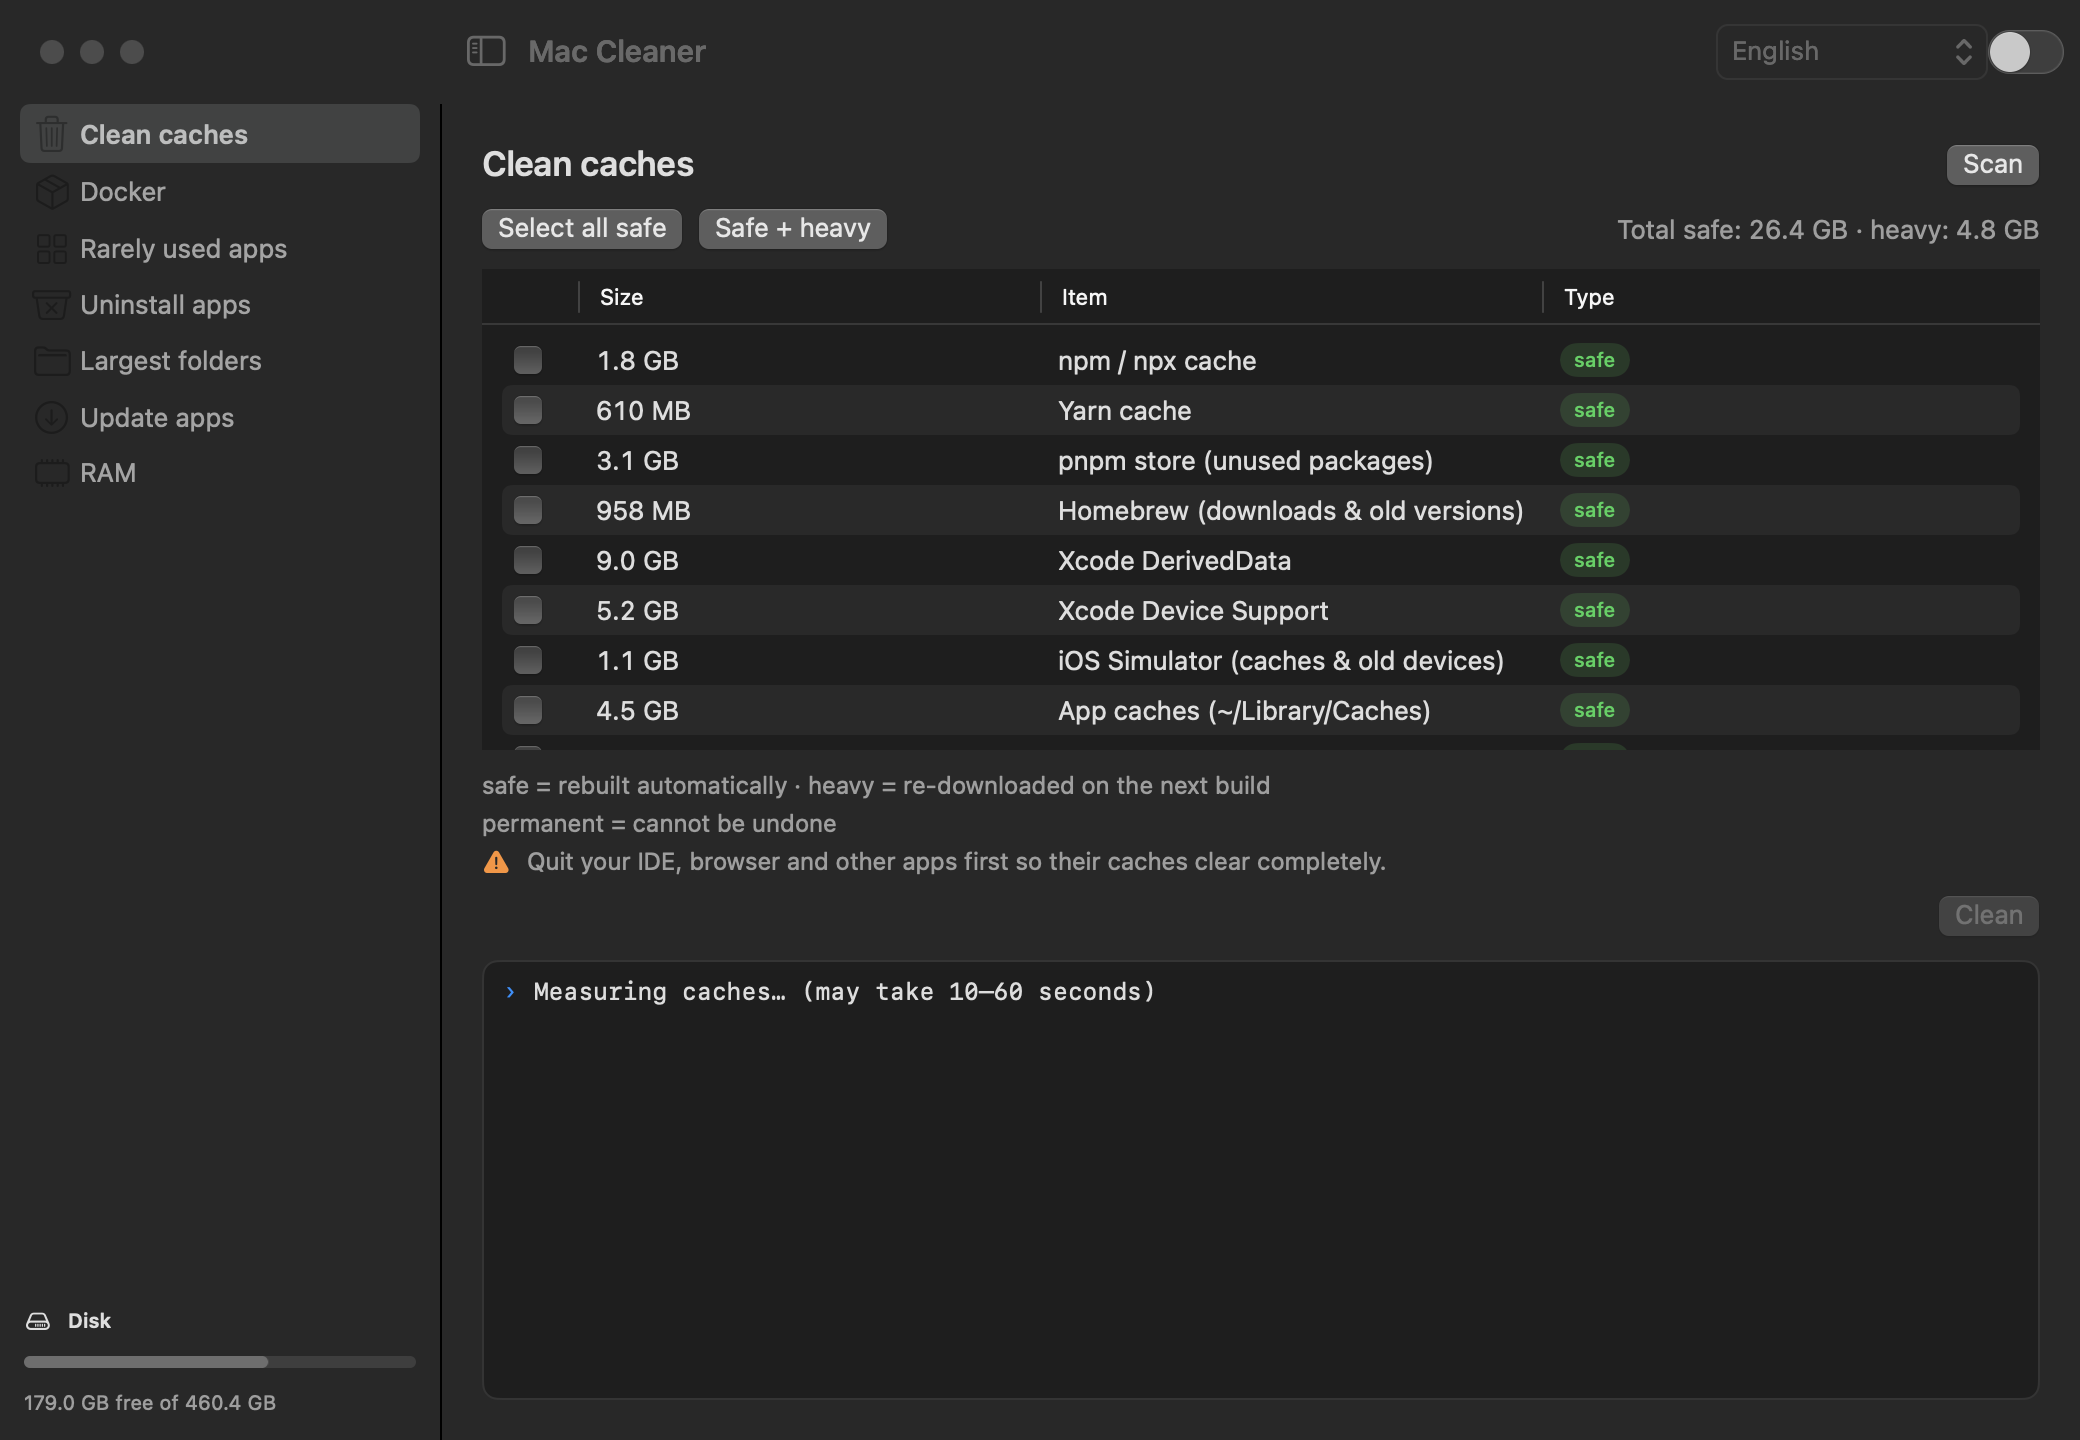
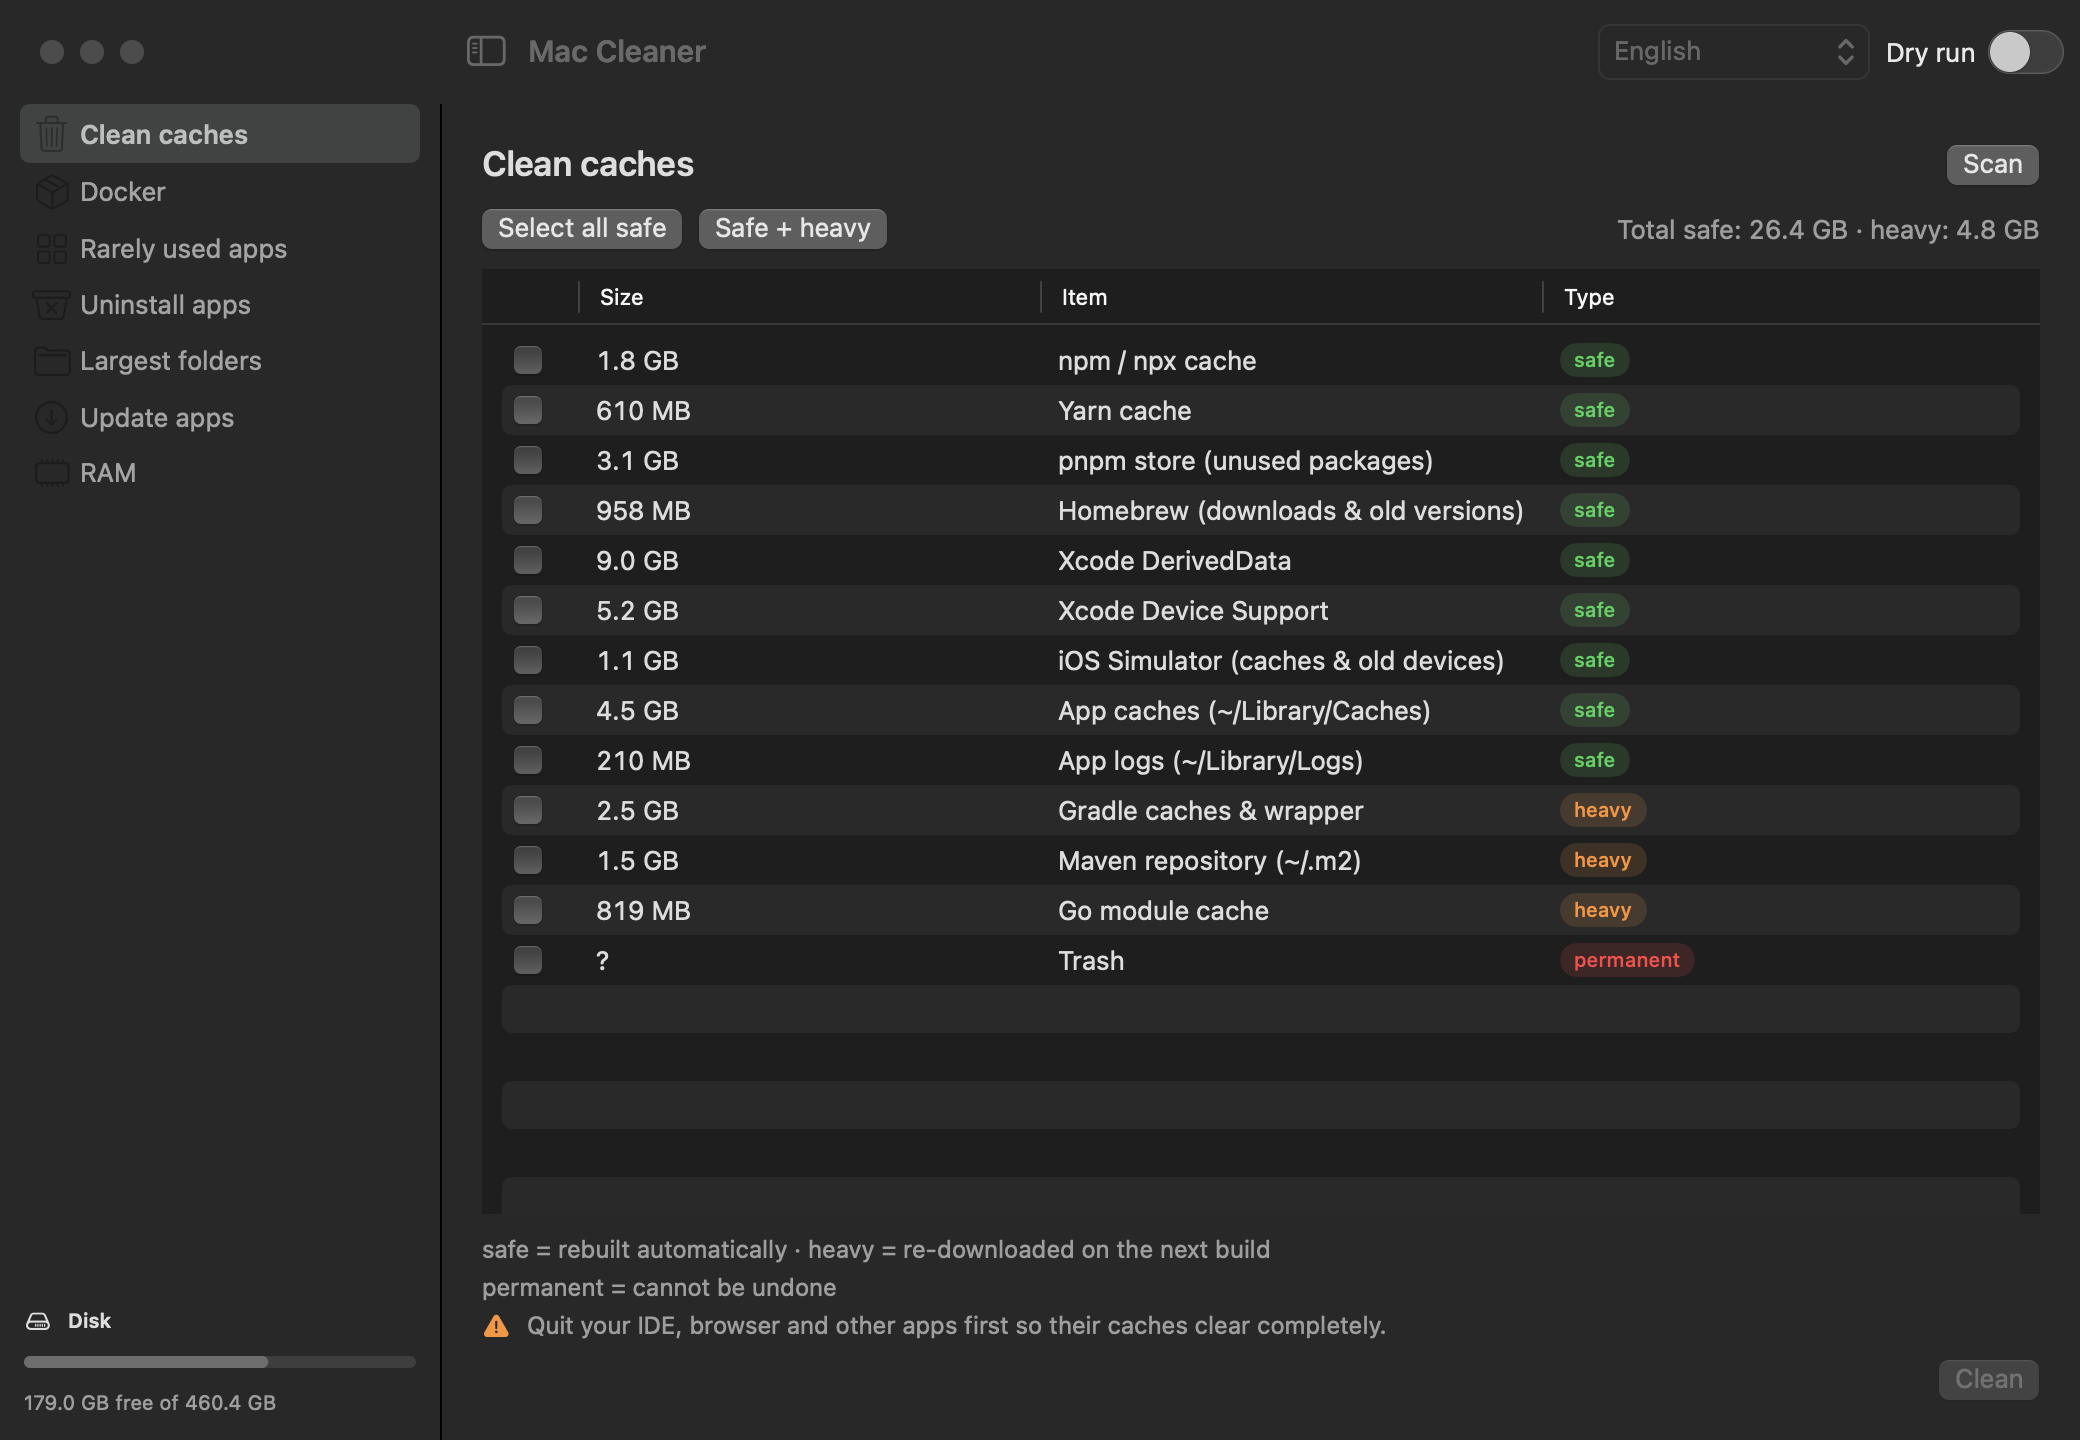
README: final polish and screenshots
- Dry run: the switch is now labelled, and a yellow banner shows while it's on.
- First open: Open Anyway appears only after trying to open the app once.
- Permissions: App Management can't be checked in advance, so every cask or
  DMG update confirmation shows the reminder.
- FAQ: the app asks for "access data from other apps" too, when an uninstall
  plan measures ~/Library/Containers.
- The Docker, Uninstall, Largest folders and RAM screenshots are shown in a
  compact table. All seven app screenshots were regenerated with the demo
  snapshot mode (labelled Dry run switch, no scan log on the Cache screen,
  RAM note pointing at the Docker screen).

diff --git a/README.md b/README.md
@@ -23,7 +23,7 @@ Requires a Mac with Apple Silicon (M1 or newer) and macOS 13+. Intel Macs: use t
 
 ![The Mac Cleaner app measuring developer caches](screenshots/gui-cache.png)
 
-Every screen shows what it found before anything is deleted, and nothing is deleted until you confirm. Turn on the **Dry run** switch at the top right to see what would happen without deleting anything. The language menu next to it switches between English and Bahasa Indonesia.
+Every screen shows what it found before anything is deleted, and nothing is deleted until you confirm. To see what would happen without deleting anything, turn on the switch labelled **Dry run** at the top right; a yellow banner shows while it's on. The language menu next to it switches between English and Bahasa Indonesia.
 
 ### First open
 
@@ -31,17 +31,17 @@ Mac Cleaner isn't notarized by Apple, so macOS asks you to confirm it once:
 
 1. Unzip `Mac-Cleaner-<version>.zip` (double-click it).
 2. Drag **Mac Cleaner** into **Applications** first. Opened straight from Downloads, macOS runs it from a temporary copy, and the permissions you grant may not stick.
-3. Open it. When macOS says it can't verify the app, close the message (don't choose *Move to Trash*). Then go to **System Settings → Privacy & Security**, scroll down to **Security** and click **Open Anyway** next to Mac Cleaner. Confirm, with your password if macOS asks. From then on it opens like any other app.
+3. Open it. When macOS says it can't verify the app, close the message (don't choose *Move to Trash*). Then go to **System Settings → Privacy & Security**, scroll down to **Security** and click **Open Anyway** next to Mac Cleaner. The button only appears after you've tried to open the app once, so if it isn't there, open Mac Cleaner again first. Confirm, with your password if macOS asks. From then on it opens like any other app.
 
 ### Permissions
 
-macOS asks for these only when a feature needs one. If one is missing, Mac Cleaner says so on that screen, with an **Open System Settings** button.
+macOS asks for these only when a feature needs one. If Finder control or Full Disk Access is missing, Mac Cleaner says so on that screen, with an **Open System Settings** button. App Management can't be checked in advance, so the confirmation of every cask or DMG update shows a reminder about it with the same button, even when it's already on; then just continue.
 
 | Permission | Why Mac Cleaner needs it | How to turn it on |
 | --- | --- | --- |
 | Finder control (Automation) | To move apps and their leftover files to the Trash, and to empty the Trash | Click **Allow** (or **OK**) when macOS asks. Later: System Settings → Privacy & Security → **Automation** → Mac Cleaner → **Finder** |
 | Full Disk Access | To measure `~/Library/Containers` (sandboxed apps' data) in *Largest folders*, and the size of the Trash | System Settings → Privacy & Security → **Full Disk Access** → turn on **Mac Cleaner** (add it with **+** if it isn't listed). Optional |
-| App Management | So updates can replace apps in Applications (*Update apps*: Homebrew casks and DMG apps) | If macOS says Mac Cleaner was prevented from modifying apps: System Settings → Privacy & Security → **App Management** → turn on **Mac Cleaner** |
+| App Management | So updates can replace apps in Applications (*Update apps*: Homebrew casks and DMG apps) | If macOS says Mac Cleaner was prevented from modifying apps: System Settings → Privacy & Security → **App Management** → turn on **Mac Cleaner**. The reminder in the update confirmation shows either way |
 
 After you update Mac Cleaner to a new version, macOS may treat it as a new app: you may need to grant these permissions again, and click **Open Anyway** once more.
 
@@ -52,6 +52,17 @@ After you update Mac Cleaner to a new version, macOS may treat it as a new app: 
 **Update apps** — Homebrew, DMG apps, apps with their own updater and the App Store in one list
 
 ![Update apps in the Mac Cleaner app](screenshots/gui-updates.png)
+
+<table>
+  <tr>
+    <td width="50%"><b>Docker</b> — containers, images and volumes to pick, plus the clean-everything actions<br><img src="screenshots/gui-docker.png" alt="Docker in the Mac Cleaner app"></td>
+    <td width="50%"><b>Uninstall apps</b> — search, then see the app and its leftover files before anything moves<br><img src="screenshots/gui-uninstall.png" alt="Uninstall apps in the Mac Cleaner app"></td>
+  </tr>
+  <tr>
+    <td width="50%"><b>Largest folders</b> — where the space goes, with Show in Finder<br><img src="screenshots/gui-folders.png" alt="Largest folders in the Mac Cleaner app"></td>
+    <td width="50%"><b>RAM</b> — memory pressure and the heaviest apps, which you can quit<br><img src="screenshots/gui-ram.png" alt="RAM in the Mac Cleaner app"></td>
+  </tr>
+</table>
 
 *Screenshots use demo data — your items and sizes will differ.*
 
@@ -233,7 +244,7 @@ A note on "RAM cleaners": macOS deliberately keeps free RAM filled with cache, b
 
 **Menu 5 doesn't count `~/Library/Containers`.** Those folders need *Full Disk Access*. Give it to Terminal (or to the Mac Cleaner app) in *System Settings › Privacy & Security › Full Disk Access* if you want them included. Without it, Mac Cleaner skips them so you don't get a flood of permission pop-ups.
 
-**macOS asks whether Terminal may "access data from other apps".** That happens when uninstalling a sandboxed app, because its leftovers live in `~/Library/Containers`. Allowing it lets Mac Cleaner measure and move those files.
+**macOS asks whether Terminal or Mac Cleaner may "access data from other apps".** That happens when uninstalling a sandboxed app, because its leftovers live in `~/Library/Containers`. The script asks through Terminal; the app asks as soon as it shows an uninstall plan, because it measures those folders to show their size. Allowing it lets Mac Cleaner measure and move those files.
 
 **macOS blocks double-clicking the file.** If you downloaded it with a browser, run `xattr -d com.apple.quarantine mac-cleaner.command` and `chmod +x mac-cleaner.command` once. Files from `git clone` or `curl` don't have this problem.
 
@@ -268,7 +279,7 @@ Butuh Mac dengan Apple Silicon (M1 atau lebih baru) dan macOS 13+. Mac Intel: pa
 
 ![Aplikasi Mac Cleaner menghitung ukuran cache developer](screenshots/gui-cache.png)
 
-Setiap layar menampilkan dulu apa yang ditemukan, dan tidak ada yang dihapus sebelum Anda konfirmasi. Nyalakan sakelar **Mode coba** di kanan atas untuk melihat apa yang akan terjadi tanpa menghapus apa pun. Menu bahasa di sebelahnya mengganti tampilan antara Bahasa Indonesia dan English.
+Setiap layar menampilkan dulu apa yang ditemukan, dan tidak ada yang dihapus sebelum Anda konfirmasi. Untuk melihat apa yang akan terjadi tanpa menghapus apa pun, nyalakan sakelar berlabel **Mode coba** di kanan atas; selama aktif, spanduk kuning muncul di atas layar. Menu bahasa di sebelahnya mengganti tampilan antara Bahasa Indonesia dan English.
 
 #### Pertama kali dibuka
 
@@ -276,17 +287,17 @@ Mac Cleaner belum dinotarisasi Apple, jadi macOS meminta Anda mengonfirmasinya s
 
 1. Unzip `Mac-Cleaner-<versi>.zip` (double-click file-nya).
 2. Seret **Mac Cleaner** ke folder **Applications** dulu. Kalau dibuka langsung dari Downloads, macOS menjalankannya dari salinan sementara, dan izin yang Anda berikan bisa hilang.
-3. Buka aplikasinya. Saat macOS bilang tidak bisa memverifikasi aplikasi ini, tutup pesannya (jangan pilih memindahkannya ke Trash). Lalu buka **Pengaturan Sistem → Privasi & Keamanan**, gulir ke bagian **Keamanan**, dan klik **Tetap Buka** di samping Mac Cleaner. Konfirmasi, dengan password Anda kalau macOS memintanya. Setelah itu Mac Cleaner terbuka seperti aplikasi lain.
+3. Buka aplikasinya. Saat macOS bilang tidak bisa memverifikasi aplikasi ini, tutup pesannya (jangan pilih memindahkannya ke Trash). Lalu buka **Pengaturan Sistem → Privasi & Keamanan**, gulir ke bagian **Keamanan**, dan klik **Tetap Buka** di samping Mac Cleaner. Tombol ini baru muncul setelah Anda mencoba membuka aplikasinya sekali, jadi kalau belum ada, buka Mac Cleaner sekali lagi. Konfirmasi, dengan password Anda kalau macOS memintanya. Setelah itu Mac Cleaner terbuka seperti aplikasi lain.
 
 #### Izin
 
-macOS hanya meminta izin ini saat sebuah fitur membutuhkannya. Kalau ada yang belum diberikan, Mac Cleaner memberi tahu di layar itu, lengkap dengan tombol **Buka Pengaturan Sistem**.
+macOS hanya meminta izin ini saat sebuah fitur membutuhkannya. Kalau kontrol Finder atau Akses Disk Penuh belum diberikan, Mac Cleaner memberi tahu di layar itu, lengkap dengan tombol **Buka Pengaturan Sistem**. Manajemen App tidak bisa dicek lebih dulu, jadi konfirmasi setiap update cask atau aplikasi DMG selalu menampilkan pengingat dengan tombol yang sama, meskipun izinnya sudah aktif; kalau begitu, lanjutkan saja.
 
 | Izin | Untuk apa | Cara mengaktifkan |
 | --- | --- | --- |
 | Kontrol Finder (Otomatisasi) | Memindahkan aplikasi beserta file sisanya ke Trash, dan mengosongkan Trash | Klik **Izinkan** (atau **OK**) saat macOS bertanya. Nanti: Pengaturan Sistem → Privasi & Keamanan → **Otomatisasi** → Mac Cleaner → **Finder** |
 | Akses Disk Penuh (Full Disk Access) | Mengukur `~/Library/Containers` (data aplikasi sandbox) di *Folder terbesar*, dan ukuran Trash | Pengaturan Sistem → Privasi & Keamanan → **Akses Disk Penuh** → nyalakan **Mac Cleaner** (tambahkan dengan **+** kalau belum ada di daftar). Opsional |
-| Manajemen App (App Management) | Supaya update bisa mengganti aplikasi di Applications (*Update aplikasi*: cask Homebrew dan aplikasi DMG) | Kalau macOS bilang Mac Cleaner dicegah mengubah aplikasi: Pengaturan Sistem → Privasi & Keamanan → **Manajemen App** → nyalakan **Mac Cleaner** |
+| Manajemen App (App Management) | Supaya update bisa mengganti aplikasi di Applications (*Update aplikasi*: cask Homebrew dan aplikasi DMG) | Kalau macOS bilang Mac Cleaner dicegah mengubah aplikasi: Pengaturan Sistem → Privasi & Keamanan → **Manajemen App** → nyalakan **Mac Cleaner**. Pengingat di konfirmasi update tetap muncul |
 
 Setelah Mac Cleaner diperbarui ke versi baru, macOS bisa menganggapnya aplikasi baru: izin-izin ini mungkin perlu diberikan lagi, dan **Tetap Buka** perlu diklik sekali lagi.
 
@@ -386,7 +397,7 @@ Catatan soal "pembersih RAM": macOS sengaja mengisi RAM kosong dengan cache, jad
 - **Ruang kosong tidak langsung bertambah?** macOS kadang menahan ruang di snapshot APFS. Cek lagi beberapa menit kemudian.
 - **Aplikasi "tidak tercatat"?** macOS tidak punya catatan kapan aplikasi itu dibuka (belum pernah dibuka, atau hanya lewat CLI).
 - **Menu 5 tidak menghitung `~/Library/Containers`?** Folder itu butuh *Full Disk Access*. Aktifkan untuk Terminal (atau untuk aplikasi Mac Cleaner) di *System Settings › Privacy & Security › Full Disk Access*.
-- **macOS bertanya apakah Terminal boleh "mengakses data dari aplikasi lain"?** Itu muncul saat uninstall aplikasi sandbox, karena file sisanya ada di `~/Library/Containers`. Izinkan supaya Mac Cleaner bisa mengukur dan memindahkan file tersebut.
+- **macOS bertanya apakah Terminal atau Mac Cleaner boleh "mengakses data dari aplikasi lain"?** Itu muncul saat uninstall aplikasi sandbox, karena file sisanya ada di `~/Library/Containers`. Script bertanya lewat Terminal; aplikasinya bertanya begitu menampilkan rencana uninstall, karena folder itu diukur untuk menampilkan ukurannya. Izinkan supaya Mac Cleaner bisa mengukur dan memindahkan file tersebut.
 - **File tidak bisa di-double-click?** Kalau di-download lewat browser, jalankan sekali: `xattr -d com.apple.quarantine mac-cleaner.command` dan `chmod +x mac-cleaner.command`.
 
 ### Kontribusi
